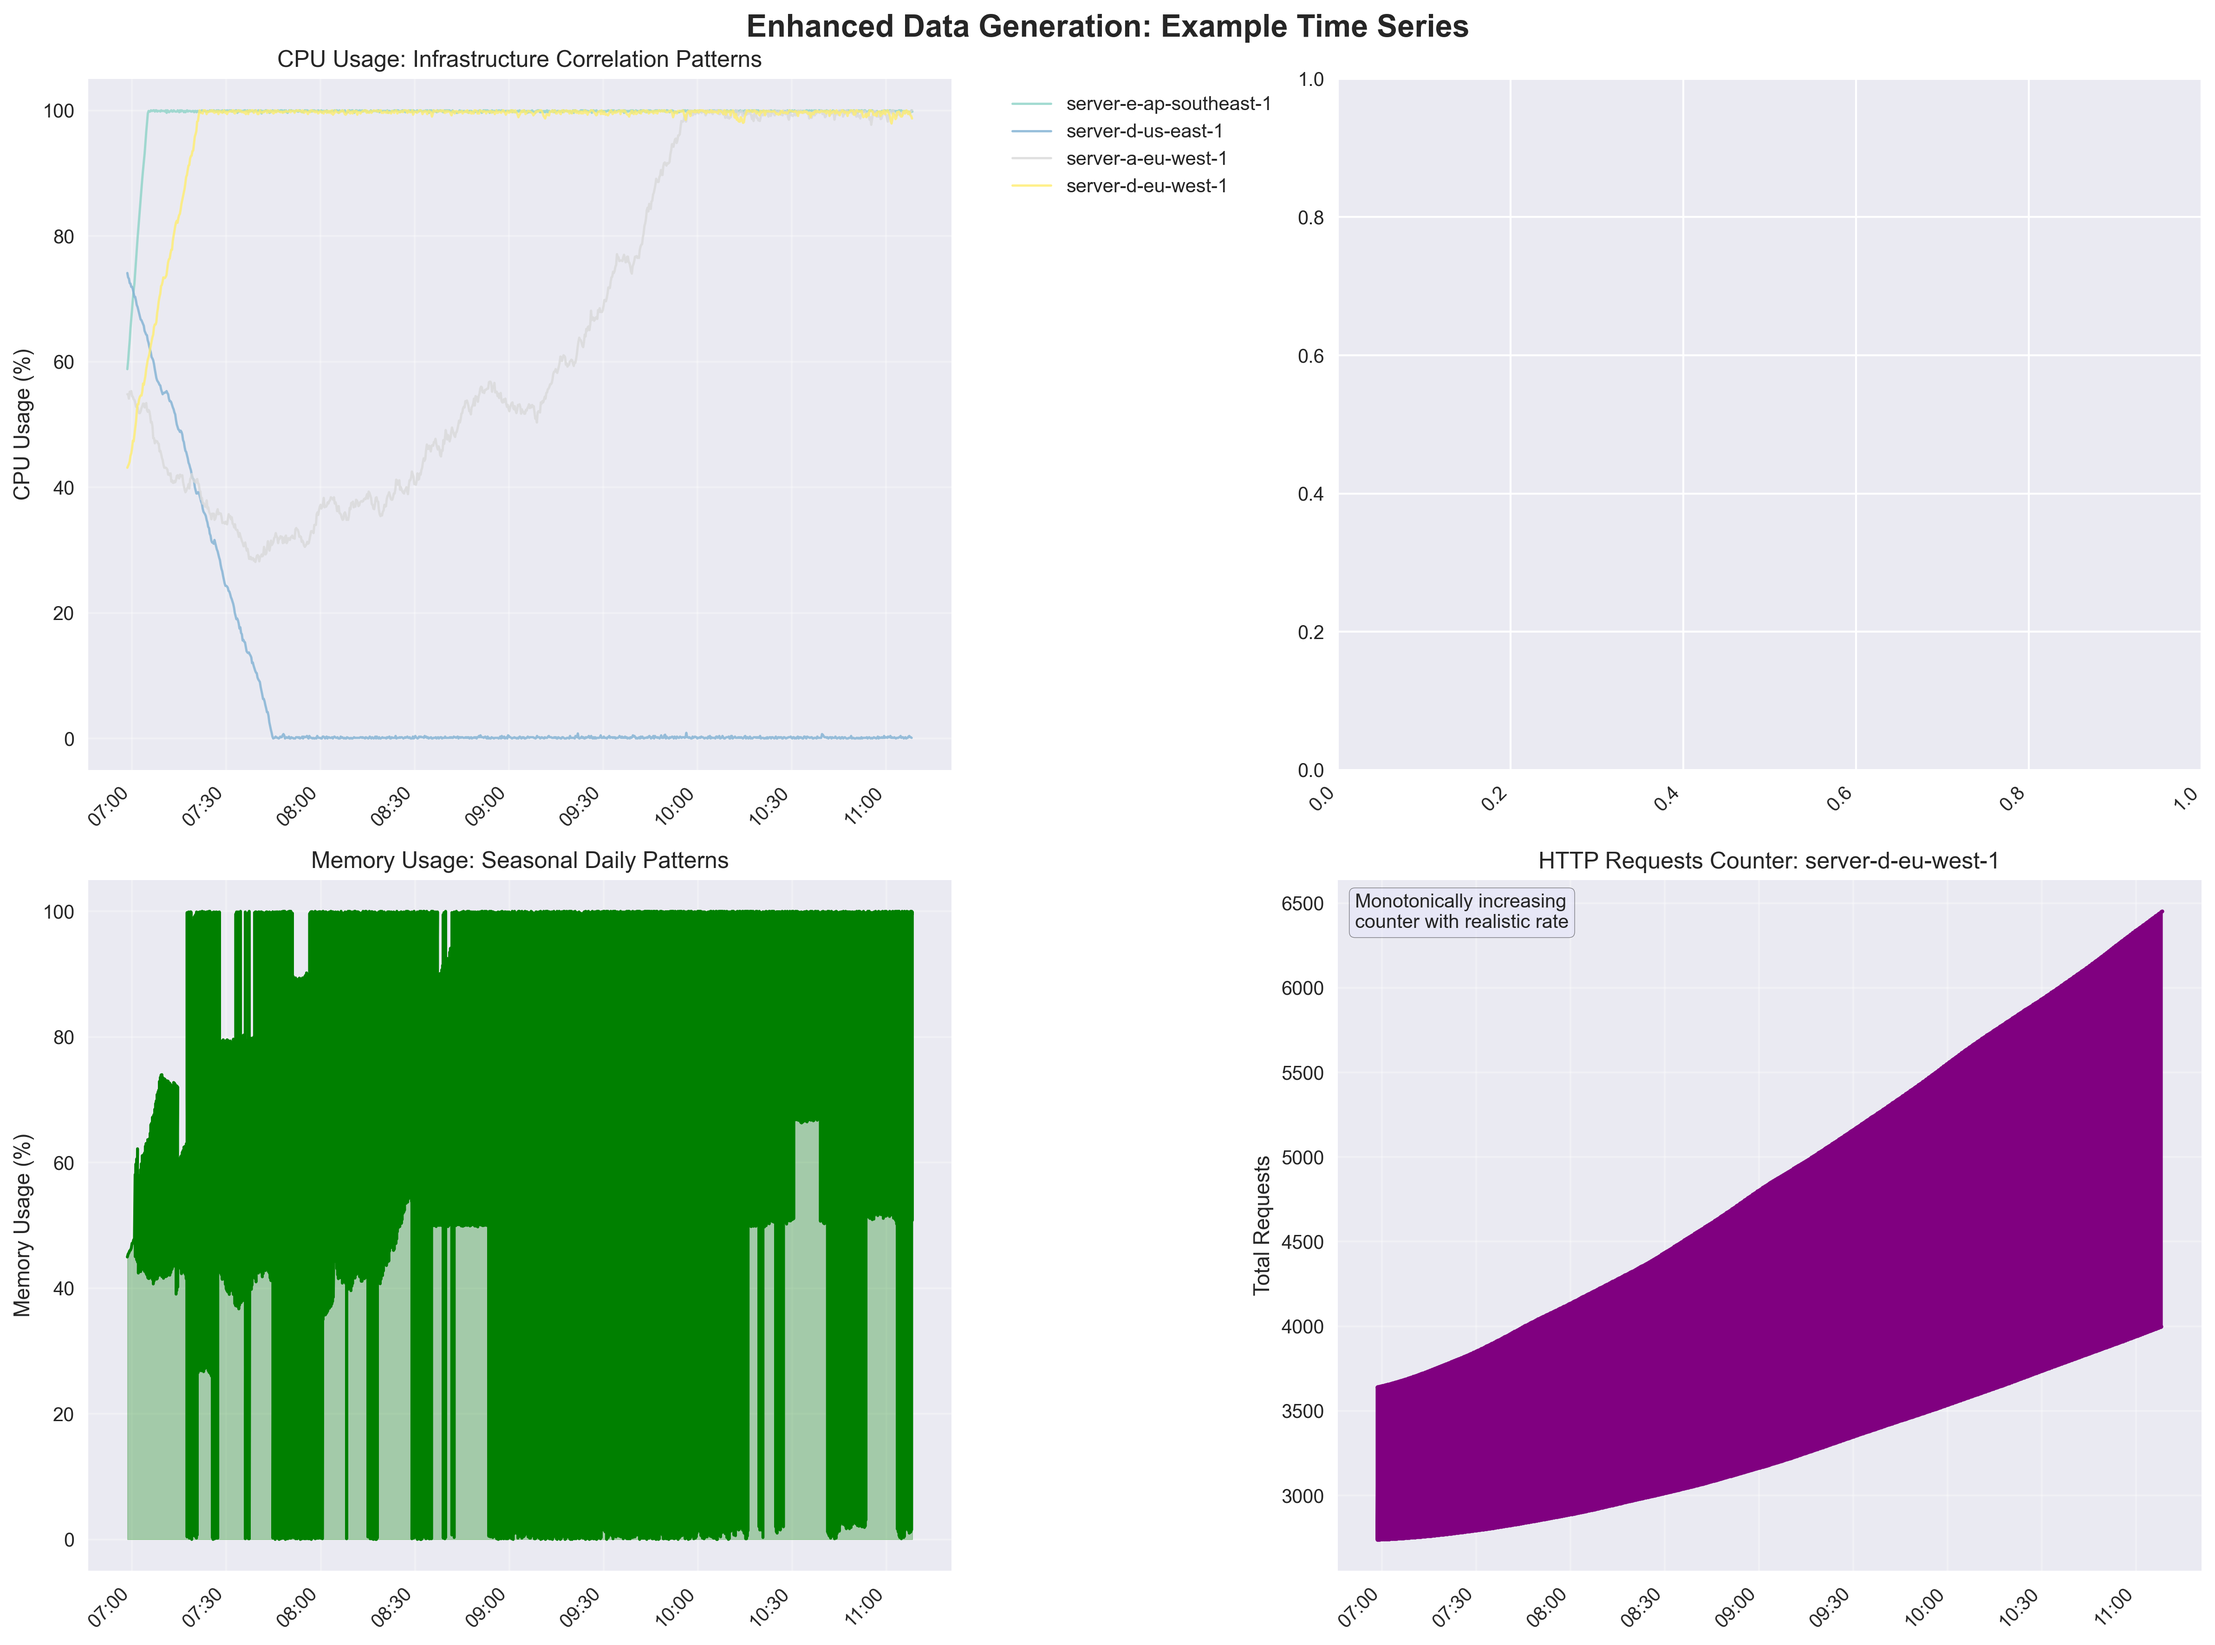
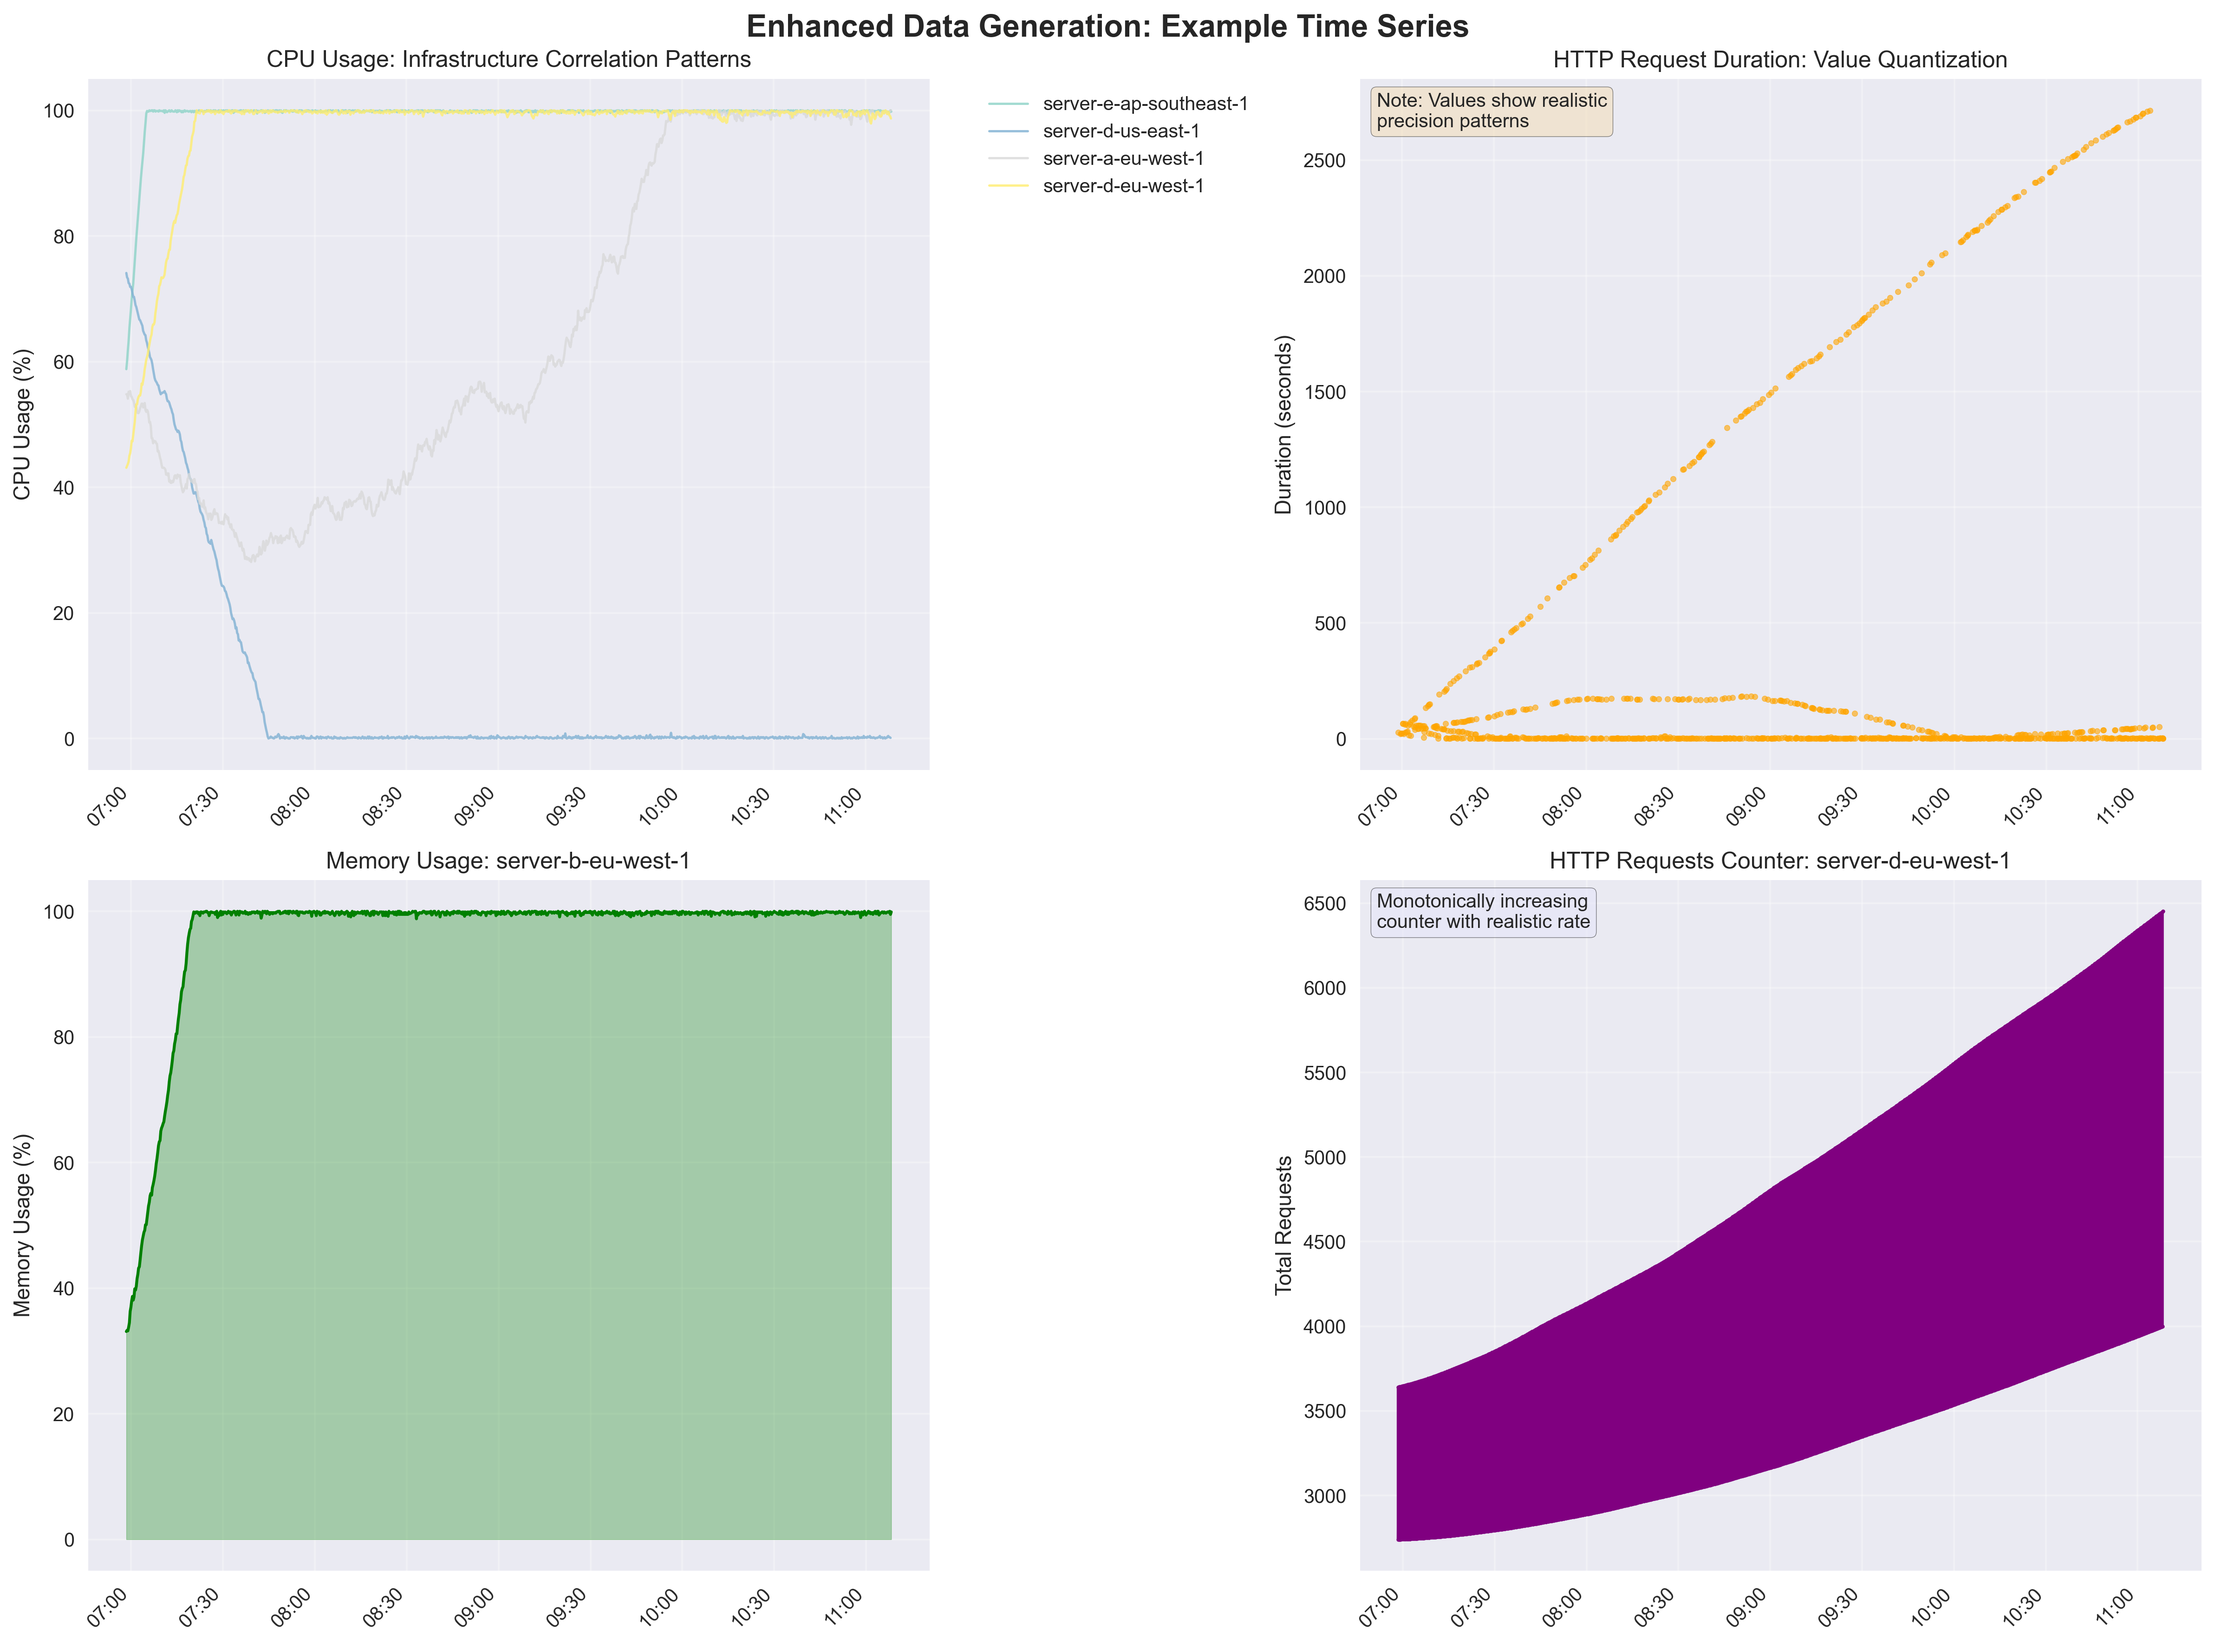
checkpoint

diff --git a/generate_charts.py b/generate_charts.py
@@ -181,7 +181,7 @@ def chart_infrastructure_correlation(df, charts_dir):
     data_for_box = [cpu_data[cpu_data['infra_type'] == infra]['value'].values 
                     for infra in infra_types]
     
-    box_plot = ax4.boxplot(data_for_box, labels=infra_types, patch_artist=True)
+    box_plot = ax4.boxplot(data_for_box, tick_labels=infra_types, patch_artist=True)
     for patch, color in zip(box_plot['boxes'], sns.color_palette("husl", len(infra_types))):
         patch.set_facecolor(color)
         patch.set_alpha(0.7)
@@ -591,16 +591,23 @@ def chart_data_series_examples(df, charts_dir):
     
     # Chart 2: HTTP request latency showing quantization
     ax2 = axes[0, 1]
-    latency_data = df[df['metric_name'] == 'http_request_duration_ms'].copy()
+    # Try different latency metric names
+    latency_metrics = ['http_request_duration_ms', 'http_request_duration_seconds', 'response_time_ms']
+    latency_data = None
     
-    if len(latency_data) > 0:
+    for metric in latency_metrics:
+        if metric in df['metric_name'].values:
+            latency_data = df[df['metric_name'] == metric].copy()
+            break
+    
+    if latency_data is not None and len(latency_data) > 0:
         # Show a sample of latency data points
         sample_data = latency_data.sample(min(1000, len(latency_data))).sort_values('datetime')
         
         ax2.scatter(sample_data['datetime'], sample_data['value'], 
                    alpha=0.6, s=8, color='orange')
         ax2.set_title('HTTP Request Duration: Value Quantization')
-        ax2.set_ylabel('Duration (ms)')
+        ax2.set_ylabel('Duration (seconds)' if 'seconds' in metric else 'Duration (ms)')
         ax2.grid(True, alpha=0.3)
         ax2.xaxis.set_major_formatter(mdates.DateFormatter('%H:%M'))
         
@@ -608,24 +615,67 @@ def chart_data_series_examples(df, charts_dir):
         ax2.text(0.02, 0.98, 'Note: Values show realistic\nprecision patterns', 
                 transform=ax2.transAxes, verticalalignment='top', 
                 bbox=dict(boxstyle='round', facecolor='wheat', alpha=0.5))
+    else:
+        # No latency data found, show error rate instead
+        error_data = df[df['metric_name'] == 'error_rate_percent'].copy()
+        if len(error_data) > 0:
+            sample_data = error_data.sample(min(1000, len(error_data))).sort_values('datetime')
+            ax2.scatter(sample_data['datetime'], sample_data['value'], 
+                       alpha=0.6, s=8, color='red')
+            ax2.set_title('Error Rate: Value Distribution')
+            ax2.set_ylabel('Error Rate (%)')
+            ax2.grid(True, alpha=0.3)
+            ax2.xaxis.set_major_formatter(mdates.DateFormatter('%H:%M'))
+        else:
+            ax2.text(0.5, 0.5, 'No suitable metric found\nfor this chart', 
+                    transform=ax2.transAxes, ha='center', va='center',
+                    bbox=dict(boxstyle='round', facecolor='lightgray', alpha=0.5))
     
     # Chart 3: Memory usage showing seasonal patterns
     ax3 = axes[1, 0]
     memory_data = df[df['metric_name'] == 'memory_usage_percent'].copy()
     
     if len(memory_data) > 0:
-        # Aggregate by time for cleaner visualization
-        memory_data = memory_data.groupby('datetime')['value'].mean().reset_index()
-        memory_data = memory_data.sort_values('datetime')
-        
-        ax3.plot(memory_data['datetime'], memory_data['value'], 
-                color='green', linewidth=1.5)
-        ax3.fill_between(memory_data['datetime'], memory_data['value'], 
-                        alpha=0.3, color='green')
-        ax3.set_title('Memory Usage: Seasonal Daily Patterns')
-        ax3.set_ylabel('Memory Usage (%)')
-        ax3.grid(True, alpha=0.3)
-        ax3.xaxis.set_major_formatter(mdates.DateFormatter('%H:%M'))
+        try:
+            # Sample one series for cleaner visualization
+            sample_host = memory_data['label_host'].iloc[0]
+            sample_region = memory_data['label_region'].iloc[0]
+            
+            series_data = memory_data[
+                (memory_data['label_host'] == sample_host) & 
+                (memory_data['label_region'] == sample_region)
+            ].sort_values('datetime')
+            
+            if len(series_data) > 10:
+                ax3.plot(series_data['datetime'], series_data['value'], 
+                        color='green', linewidth=1.5)
+                ax3.fill_between(series_data['datetime'], series_data['value'], 
+                                alpha=0.3, color='green')
+                ax3.set_title(f'Memory Usage: {sample_host}-{sample_region}')
+                ax3.set_ylabel('Memory Usage (%)')
+                ax3.grid(True, alpha=0.3)
+                ax3.xaxis.set_major_formatter(mdates.DateFormatter('%H:%M'))
+            else:
+                # Fallback: aggregate all data
+                memory_data_agg = memory_data.groupby('datetime')['value'].mean().reset_index()
+                memory_data_agg = memory_data_agg.sort_values('datetime')
+                
+                ax3.plot(memory_data_agg['datetime'], memory_data_agg['value'], 
+                        color='green', linewidth=1.5)
+                ax3.fill_between(memory_data_agg['datetime'], memory_data_agg['value'], 
+                                alpha=0.3, color='green')
+                ax3.set_title('Memory Usage: Aggregated Pattern')
+                ax3.set_ylabel('Memory Usage (%)')
+                ax3.grid(True, alpha=0.3)
+                ax3.xaxis.set_major_formatter(mdates.DateFormatter('%H:%M'))
+        except Exception as e:
+            ax3.text(0.5, 0.5, f'Error rendering memory chart:\n{str(e)}', 
+                    transform=ax3.transAxes, ha='center', va='center',
+                    bbox=dict(boxstyle='round', facecolor='lightcoral', alpha=0.5))
+    else:
+        ax3.text(0.5, 0.5, 'No memory usage data found', 
+                transform=ax3.transAxes, ha='center', va='center',
+                bbox=dict(boxstyle='round', facecolor='lightgray', alpha=0.5))
     
     # Chart 4: HTTP request count showing counter behavior
     ax4 = axes[1, 1]
@@ -800,28 +850,9 @@ def main():
     charts_dir = create_charts_directory()
     print(f"✅ Created charts directory: {charts_dir}")
     
-    # Generate data series illustration charts (new)
+    # Generate data series illustration charts only
     print("📈 Generating data series examples...")
     chart_data_series_examples(df, charts_dir)
-    
-    print("📈 Generating detailed timestamp intervals...")
-    chart_timestamp_intervals(df, charts_dir)
-    
-    # Generate analysis charts
-    print("📈 Generating timestamp regularity chart...")
-    chart_timestamp_regularity(df, charts_dir)
-    
-    print("📈 Generating infrastructure correlation chart...")
-    chart_infrastructure_correlation(df, charts_dir)
-    
-    print("📈 Generating value quantization chart...")
-    chart_value_quantization(df, charts_dir)
-    
-    print("📈 Generating seasonal patterns chart...")
-    chart_seasonal_patterns(df, charts_dir)
-    
-    print("📈 Generating compression impact chart...")
-    chart_compression_impact(df, charts_dir)
     
     print("\n🎉 All charts generated successfully!")
     print(f"📁 Charts saved to: {charts_dir.absolute()}")

diff --git a/docs/data-generation-deep-dive.md b/docs/data-generation-deep-dive.md
@@ -8,17 +8,9 @@ The enhanced data generator creates realistic monitoring data that closely resem
 
 *Real-world patterns: infrastructure correlation (top-left), value quantization (top-right), seasonal patterns (bottom-left), and monotonic counters (bottom-right)*
 
-![Detailed Timestamp Analysis](charts/timestamp_intervals_detailed.png)
-
-*Enhanced timestamp regularity: 94.6% perfect 30-second intervals with minimal jitter*
-
 ## Overview
 
-The enhanced data generator creates realistic time-series metrics with patterns commonly found in production monitoring systems. These patterns significantly improve compression ratios while maintaining data realism and integrity.
-
-![Compression Impact Analysis](charts/compression_impact.png)
-
-*The enhanced data generation achieves 30.6x compression compared to 14.4x with random data*
+The enhanced data generator creates realistic time-series metrics with patterns commonly found in production monitoring systems. These patterns significantly improve compression ratios while maintaining data realism and integrity, achieving **30.6x compression** compared to 14.4x with random data.
 
 ## Why Enhanced Data Generation?
 
@@ -55,10 +47,6 @@ for host in hosts:
 
 **Compression benefit**: Shared seasonal patterns create similar value sequences across related metrics.
 
-![Infrastructure Correlation Patterns](charts/infrastructure_correlation.png)
-
-*CPU usage patterns show clear infrastructure correlation by host-region combinations*
-
 ### 2. Timestamp Regularity Enhancement
 
 **Concept**: Modern monitoring systems have very regular scraping intervals with minimal jitter.
@@ -84,10 +72,6 @@ for i in range(num_points_per_series):
 - Hardware timestamping in network monitoring
 
 **Compression benefit**: Regular intervals produce massive numbers of zero deltas (94.6% vs 4.8% in random data).
-
-![Timestamp Regularity Analysis](charts/timestamp_regularity.png)
-
-*94.6% of timestamps show perfect regularity, dramatically improving delta compression*
 
 ### 3. Value Quantization Strategies
 
@@ -117,10 +101,6 @@ elif "duration" in series["name"] or "response_time" in series["name"]:
 - Sensor readings limited by hardware precision
 
 **Compression benefit**: Quantized values create repeating bit patterns that XOR compression exploits effectively.
-
-![Value Quantization Patterns](charts/value_quantization.png)
-
-*Different metric types show realistic quantization patterns that improve compression*
 
 ### 4. Platform Stability Modeling
 
@@ -161,10 +141,6 @@ random_walk_step *= (1.0 - stability_damping * 0.5)
 - **Network/Disk I/O**: Counter-based with infrastructure correlation
 - **Connection counts**: Integer values with load correlation
 - **Queue sizes**: Integer values with bounded ranges
-
-![Seasonal Patterns and Cross-Metric Correlations](charts/seasonal_patterns.png)
-
-*Daily usage patterns and cross-metric correlations demonstrate realistic monitoring behavior*
 
 ## Compression Impact Analysis
 
